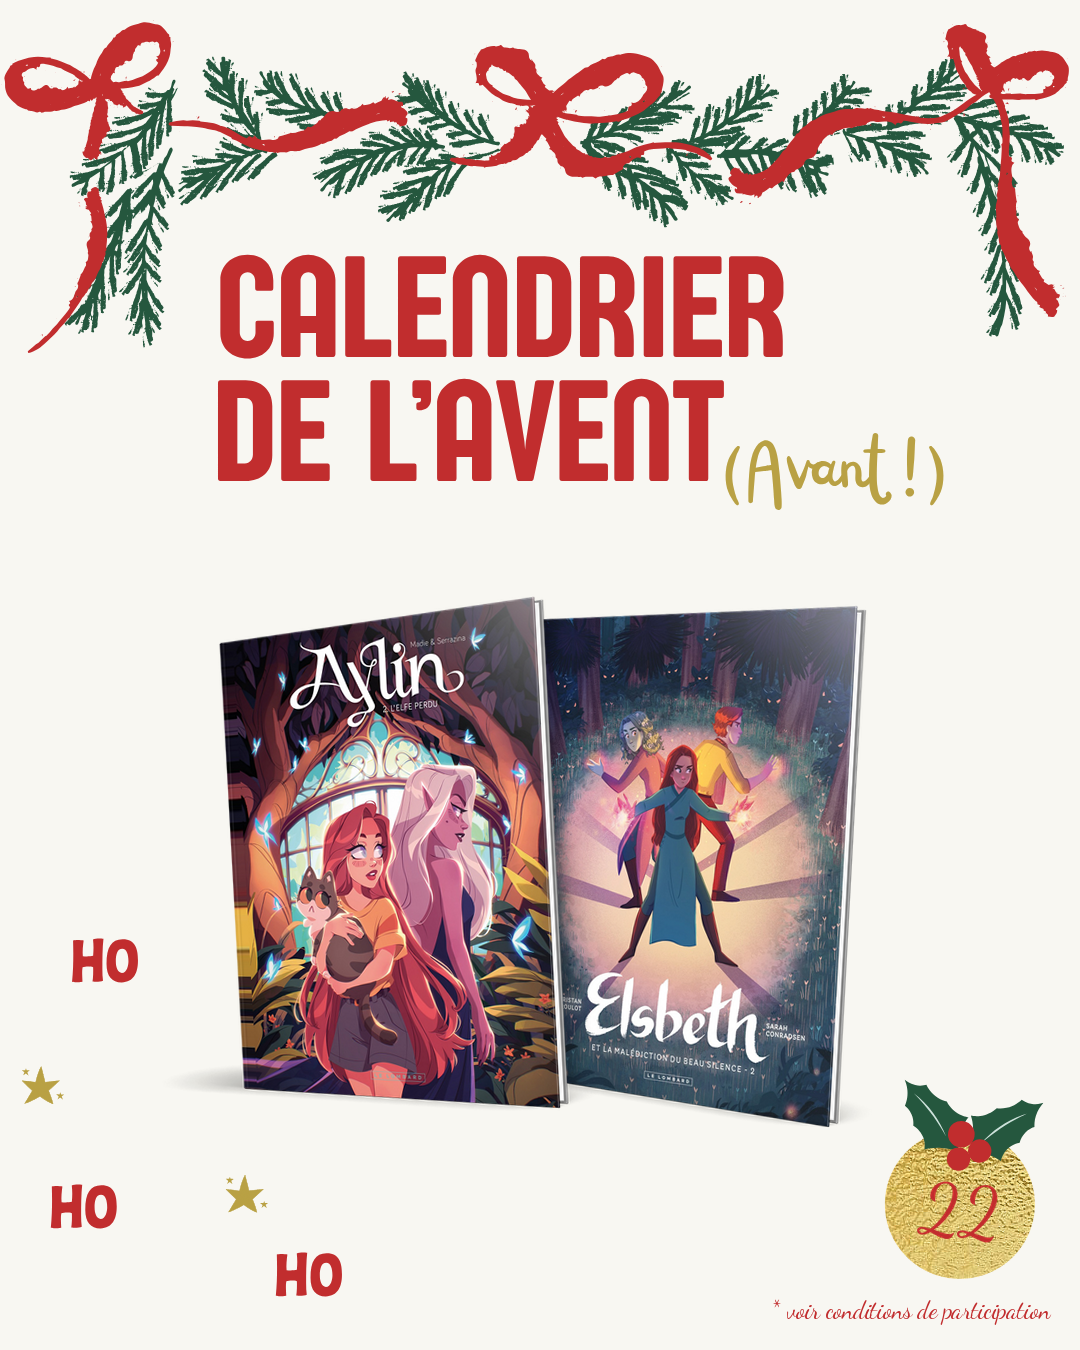
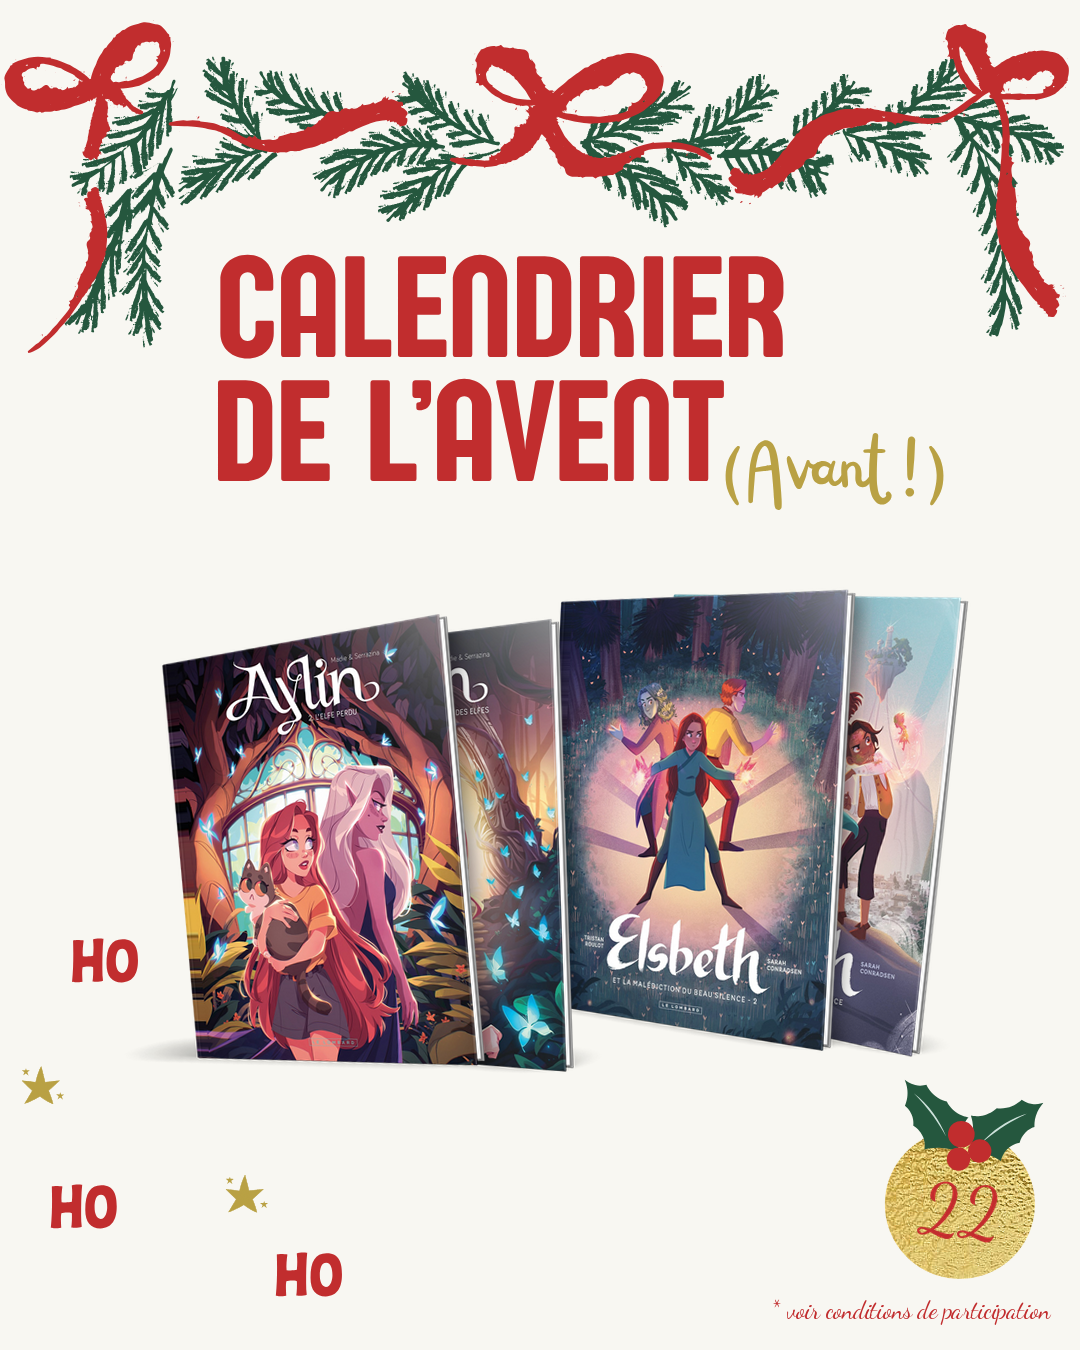
Calendrier Avant : jour 22 = Aylin 1-2 | Elsbeth 1-2 (mise en page du jour 16)
Claude-Session: https://claude.ai/code/session_01QaZk7QZvzTVY1x8op41wve

Changed region(s): [[0.1528, 0.4356, 0.9167, 0.84]]

diff --git a/calendrier-avent-2026/planning.py b/calendrier-avent-2026/planning.py
@@ -31,7 +31,7 @@ PLANNING = [
     'jour19',                             # 19 Pro gamer 1-2 | Dinodyssée 1-3 (voir COMPOSITIONS)
     {'serie': ['9782808216760', '9782808214438', '9782808212472']},                  # 20 Alpha 21, 20, 19
     {'serie': ['9782808216937', '9782808210966', '9782808204880']},                  # 21 Les Enfants de la Résistance 10, 9, 8
-    ['9782808215121', '9782808214421'],   # 22 Aylin 2 + Elsbeth 2
+    'jour22',                             # 22 Aylin 1-2 | Elsbeth 1-2 (voir COMPOSITIONS)
     ['9782808218740'],                    # 23 Ducobu 30 – Duco... Bouh !
     ['9782808211260'],                    # 24 Lonesome Dove partie 1
 ]
@@ -71,6 +71,13 @@ COMPOSITIONS = {
                   ('9782808216821', 3, 1.02, 3), ('9782808214933', 6, 1.02, 2), ('9782808212496', 9, 1.02, 1)],
         'dy': [20, 20, -15, -15, -15],
         'steps': [0.35, 0.80, 0.32, 0.32], 'h': 460, 'y': 600, 'cx': 568,   # Dinodyssée glissé sous Pro gamer
+    },
+    # même mise en page que le jour 16 : Aylin 2 devant, 1 derrière | Elsbeth 2, puis 1 derrière
+    'jour22': {
+        'books': [('9782808215121', -5, 1.0, 4), ('9782808212793', -2, 1.0, 3),
+                  ('9782808214421', 3, 1.02, 2), ('9782808211635', 6, 1.02, 1)],
+        'dy': [20, 20, -15, -15],
+        'steps': [0.35, 0.95, 0.35], 'h': 460, 'y': 600, 'cx': 560,
     },
     # même mise en page que le jour 16 : M.A.D. 3 devant, 2 et 1 derrière | Holmes vs Lupin 2, puis 1 derrière
     'jour18': {
